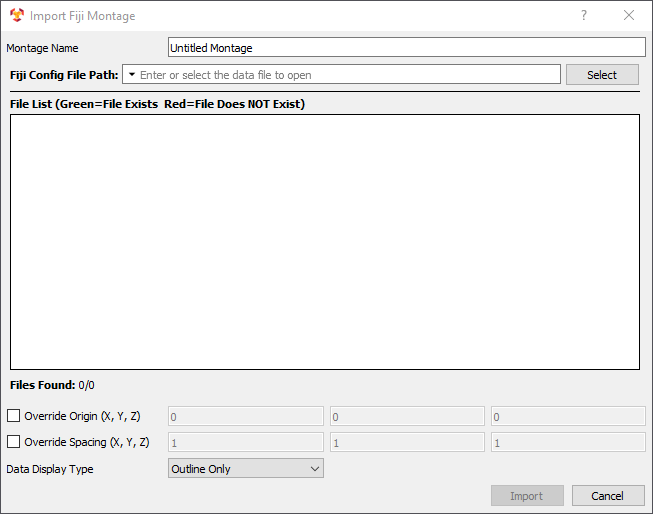
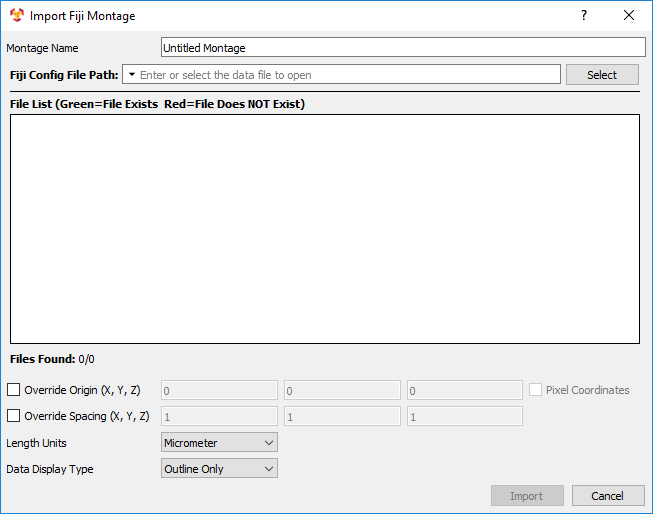
Updated documentation with length units and further details on menu options

diff --git a/Documentation/1_UsingIMFViewer/[B]_ImportingAMontageDataset.md b/Documentation/1_UsingIMFViewer/[B]_ImportingAMontageDataset.md
@@ -12,6 +12,10 @@ IMFViewer has 5 options for importing a montage:
 
 In **IMF Viewer**, the **File** menu option contains a submenu for **Import Montage**. In this submenu, there are 5 options for importing montages. These options are discussed below.
 
+For all montage options, the user can select a **Data Display Type** for the visualization of the montage. The **Outline Only** option shows a white wireframe of the overlapped image tiles. The **Individual Tiles** option shows the images overlapped with the image data visible. The **Stitched Montage** option performs a stitching montage on the input image datasets and displays the result.
+
+For the **Fiji**, **Generic**, and **Robomet** montage options, the user can specify the **Length Units** of the image files such as micrometers or inches. These will be applied to the geometry information for the input and output of the montages.
+
 [Special Note for Fiji montages using TIF files](#fijitif)
 
 ---
@@ -22,7 +26,7 @@ In **IMF Viewer**, the **File** menu option contains a submenu for **Import Mont
 
 ![DREAM3D Import Montage](Images/Import-DREAM3D-Montage.png)
 
-The **DREAM3D Montage** allows the user to import image geometry from a DREAM3D file by specifying the cell attribute matrix and image data array names. To select a DREAM3D file, click the **Select** button and use the dialog to find it. The row and column values are auto-filled by the naming convention (**prefix**_rYcX with Y the row number and X the column number). The **Data Display Type** option sets the visualization representation and determine whether to run a montaging process. The options are **Outline Only**, **Individual Tiles**, and **Stitched Montage**. When the desired values have been set, click **Import** to load the dataset into **IMF Viewer**.
+The **DREAM3D Montage** allows the user to import image geometry from a DREAM3D file by specifying the cell attribute matrix and image data array names. To select a DREAM3D file, click the **Select** button and use the dialog to find it. The row and column values are auto-filled by the naming convention (**_prefix_**_rYcX with Y the row number and X the column number). The **Data Display Type** option sets the visualization representation and determines whether to run a montaging process. The options are **Outline Only**, **Individual Tiles**, and **Stitched Montage**. When the desired values have been set, click **Import** to load the dataset into **IMF Viewer**.
 
 ---
 
@@ -32,7 +36,7 @@ The **DREAM3D Montage** allows the user to import image geometry from a DREAM3D 
 
 ![Fiji Import Montage](Images/Import-Fiji-Montage.png)
 
-The **Fiji** allows the user to import image geometry from a Fiji configuration file. To select a Fiji configuration file, click the **Select** button and use the dialog to find it. The **File List** widget shows the referenced files from the Fiji configuration file and shows whether they have been found. Additional options include overriding the origin and/or spacing of the image geometry. The **Data Display Type** option sets the visualization representation and determine whether to run a montaging process. The options are **Outline Only**, **Individual Tiles**, and **Stitched Montage**. When the desired values have been set, click **Import** to load the dataset into **IMF Viewer**.
+The **Fiji** allows the user to import image geometry from a Fiji configuration file. To select a Fiji configuration file, click the **Select** button and use the dialog to find it. The **File List** widget shows the referenced files from the Fiji configuration file and shows whether they have been found. Additional options include overriding the origin and/or spacing of the image geometry. When the desired values have been set, click **Import** to load the dataset into **IMF Viewer**.
 
 ---
 
@@ -42,7 +46,7 @@ The **Fiji** allows the user to import image geometry from a Fiji configuration 
 
 ![Generic Import Montage](Images/Import-Generic-Montage.png)
 
-The **Generic** montage allows the user to import image geometry from a folder of images. To select an image folder, click the **Select** button and use the dialog to find it. The **Collection Type**, **Order**, **Total Rows**, and **Total Columns** are used to help construct a tile configuration file. Additional options include overriding the origin and/or spacing of the image geometry and setting the tile overlap. The file information (prefix, suffix, extension, start/end index, increment index, and padding digits) should fill in automatically. Typing in the **File Extension** before selecting the folder helps. The **File List** widget shows the image files in the folder and shows whether they have been found. The **Data Display Type** option sets the visualization representation and determine whether to run a montaging process. The options are **Outline Only**, **Individual Tiles**, and **Stitched Montage**. A warning may appear if the number of files in the list do not match the size based on **Total Rows** and **Total Columns**. For example, if 9 files are in the list, the product of total rows and columns must equal 9. When the desired values have been set, click **Import** to load the dataset into **IMF Viewer**.
+The **Generic** montage allows the user to import image geometry from a folder of images. To select an image folder, click the **Select** button and use the dialog to find it. The **Collection Type**, **Order**, **Total Rows**, and **Total Columns** are used to help construct a tile configuration file. Additional options include overriding the origin and/or spacing of the image geometry and setting the tile overlap. The file information (prefix, suffix, extension, start/end index, increment index, and padding digits) should fill in automatically. Typing in the **File Extension** before selecting the folder helps. The **File List** widget shows the image files in the folder and shows whether they have been found. A warning may appear if the number of files in the list do not match the size based on **Total Rows** and **Total Columns**. For example, if 9 files are in the list, the product of total rows and columns must equal 9. When the desired values have been set, click **Import** to load the dataset into **IMF Viewer**.
 
 
 ---
@@ -53,7 +57,7 @@ The **Generic** montage allows the user to import image geometry from a folder o
 
 ![Robomet Import Montage](Images/Import-Robomet-Montage.png)
 
-The **Robomet** montage allows the user to import image geometry from a Robomet configuration file. To select a Robomet configuration file, click the **Select** button and use the dialog to find it. The file information (prefix, extension, rows, and columns) should fill in automatically. The **Slice Min** and **Slice Max** default to zero. These allow the user to run montages on several slices from the Robomet configuration file. These slices are combined into a stack in the visualization. The **File List** widget shows the image files in the folder and shows whether they have been found. Additional options include overriding the origin and/or spacing of the image geometry. The **Data Display Type** option sets the visualization representation and determine whether to run a montaging process. The options are **Outline Only**, **Individual Tiles**, and **Stitched Montage**. When the desired values have been set, click **Import** to load the dataset into **IMF Viewer**.
+The **Robomet** montage allows the user to import image geometry from a Robomet configuration file. To select a Robomet configuration file, click the **Select** button and use the dialog to find it. The file information (prefix, extension, rows, and columns) should fill in automatically. The **Slice Min** and **Slice Max** default to zero. These allow the user to run montages on several slices from the Robomet configuration file. These slices are combined into a stack in the visualization. The **File List** widget shows the image files in the folder and shows whether they have been found. Additional options include overriding the origin and/or spacing of the image geometry. When the desired values have been set, click **Import** to load the dataset into **IMF Viewer**.
 
 ---
 
@@ -63,7 +67,7 @@ The **Robomet** montage allows the user to import image geometry from a Robomet 
 
 ![Zeiss Import Montage](Images/Import-Zeiss-Montage.png)
 
-The **Zeiss** allows the user to import image geometry from a Zeiss configuration file. To select a Zeiss configuration file, click the **Select** button and use the dialog to find it. The **File List** widget shows the referenced files from the Zeiss configuration file and shows whether they have been found. Additional options include converting the images to grayscale and overriding the origin and/or spacing of the image geometry. The **Data Display Type** option sets the visualization representation and determine whether to run a montaging process. The options are **Outline Only**, **Individual Tiles**, and **Stitched Montage**. When the desired values have been set, click **Import** to load the dataset into **IMF Viewer**.
+The **Zeiss** allows the user to import image geometry from a Zeiss configuration file. To select a Zeiss configuration file, click the **Select** button and use the dialog to find it. The **File List** widget shows the referenced files from the Zeiss configuration file and shows whether they have been found. Additional options include converting the images to grayscale and overriding the origin and/or spacing of the image geometry. When the desired values have been set, click **Import** to load the dataset into **IMF Viewer**.
 
 ---
 

diff --git a/Documentation/1_UsingIMFViewer/[A]_UserInterface.md b/Documentation/1_UsingIMFViewer/[A]_UserInterface.md
@@ -12,7 +12,7 @@ IMFViewer has 5 main sections of its user interface:
 
 The **Import Queue** can be _undocked_ from the main window and moved around. Additionally, it can also have its visibility toggled by the appropriate button found in IMFViewer's **View** menu.
 
-IMFViewer allows the user to import image, DREAM.3D, STL, and VTK files as well as entire montages into the application and visualize the data. Users can import new data by clicking the _Import Data_ option in the _File_ menu, or by choosing a montage import method in the _Import Montage_ menu inside the _File_ menu.  Data that is currently being imported will appear in the **Import Queue** until the import is complete. Filter objects are created for imported data in the **Filter View** and the imported data also appears as a dataset in the **Visualization Widget**.  Users can manipulate fields in the **Filter Information Widget** to change information about the current dataset like its color mapping, alpha value, and local transform.
+IMFViewer allows the user to import image, DREAM.3D, STL, and VTK files as well as entire montages into the application and visualize the data. Users can import new data by clicking the _Import Data_ option in the _File_ menu, or by choosing a montage import method in the _Import Montage_ menu inside the _File_ menu.  Data that is currently being imported will appear in the **Import Queue** until the import is complete. Filter objects are created for imported data in the **Filter View** and the imported data also appears as a dataset in the **Visualization Widget**.  Users can manipulate fields in the **Filter Information Widget** to change information about the current dataset like its color mapping, alpha value, and local transform. Users can select specific datasets and perform operations on them, such as translating, rotating, and scaling in 3D space or stitching individual tiles together into a montage.
 
 ---
 
@@ -20,7 +20,7 @@ IMFViewer allows the user to import image, DREAM.3D, STL, and VTK files as well 
 ## Filter View ##
 </a>
 
-The **Filter View** section displays which **Filters** are currently loaded in the IMFViewer application.  Users can select specific filters and perform operations on them, such as translating, rotating, and scaling datasets in 3D space or stitching individual tiles together into a montage.
+The **Filter View** section displays which **Filters** are currently loaded in the IMFViewer application. The filters are organized with a root element and its children. The root element is the file, pipeline, or montage container. The children are individual data containers or images. The visibility of the children can be toggled by clicking the eye icon.
 
 ---
 
@@ -52,4 +52,31 @@ The **Import Queue** shows datasets in the process of being loaded. These can in
 ## Menu Options ##
 </a>
 
-The **File Menu** includes menu options for importing data, importing montages, executing DREAM3D pipelines, performing montages, and saving images or DREAM3D files. To save an image, a valid filter must be selected that contains image geometry. To save a DREAM3D file, the selected filter(s) must be a DREAM3D pipeline or data container array. The **View Menu** allows the user to hide the **Import Queue**. The **Filters Menu** has options for clip, slice, crop, threshold, mask, or text filters.
+The **File Menu** includes menu options for importing data, importing montages, executing DREAM3D pipelines, performing montages, and saving images or DREAM3D files. To save an image, a valid filter must be selected that contains image geometry. To save a DREAM3D file, the selected filter(s) must be a DREAM3D pipeline or data container array. The **View Menu** allows the user to hide the **Import Queue**. The **Filters Menu** has options for clip, slice, crop, threshold, mask, or text filters. 
+
+Current Menu Options:
+* File
+    * Import Data
+    * Import Montage
+        * DREAM3D
+        * Fiji
+        * Generic
+        * Robomet
+        * Zeiss
+    * Execute Pipeline
+    * Perform Montage
+    * Save Image
+    * Save As DREAM3D File
+* View
+    * Import Queue
+* Filters
+    * Clip Filter
+    * Slice Filter
+    * Crop Filter
+    * Threshold Filter
+    * Mask Filter
+    * Text Filter
+
+For further details on **Import Data**, see [C]_ImportingOtherDatasets.md.
+For **Import Montage**, see [B]_ImportingAMontageDataset.md.
+For **Execute Pipeline** and **Perform Montage**, see [E]_AdvancedOptions.md.

diff --git a/Documentation/1_UsingIMFViewer/[E]_AdvancedOptions.md b/Documentation/1_UsingIMFViewer/[E]_AdvancedOptions.md
@@ -17,7 +17,7 @@ In **IMF Viewer**, the **File** menu option contains options for performing a mo
 
 ![Perform Montage](Images/Perform-Montage.png)
 
-The **Perform Montage** menu option allows the user to perform a montage of selected image datasets. The selected datasets are shown in a read-only list. The resulting montage can be named. Selecting **Perform Stitching Only** will ensure the current positions for selected image datasets are kept and the registration filter is not run. The **Save to File** option allows the user to select an output file for the montage results.
+The **Perform Montage** menu option allows the user to perform a montage of selected image datasets. The selected datasets are shown in a read-only list. The resulting montage can be named using the **Montage Name** text entry. Selecting **Perform Stitching Only** will ensure the current positions for selected image datasets are kept and the registration filter is not run. The **Save to File** option allows the user to select an output file for the montage results.
 
 ---
 
@@ -27,8 +27,8 @@ The **Perform Montage** menu option allows the user to perform a montage of sele
 
 ![Execute Pipeline](Images/Execute-Pipeline.png)
 
-The **Execute Pipeline** menu option allows the user to execute a pipeline either purely from the file system or on a loaded dataset. If the **Execute a Pipeline From Disk** is selected, the user needs only to select a pipeline .json file and click **OK**. However, all filters in the JSON file must be available for it to run successfully. If the user selects **Execute a Pipeline on a Loaded Dataset**, then an additional page is shown after clicking **Next >**.
+The **Execute Pipeline** menu option allows the user to execute a pipeline. The pipeline can be executed either directly from the file system or on a loaded dataset. If the **Execute a Pipeline From Disk** is selected, the user needs only to select a pipeline .json file and click **OK**. However, all filters in the JSON file must be available for it to run successfully. If the user selects **Execute a Pipeline on a Loaded Dataset**, then an additional page is shown after clicking **Next >**.
 
 ![Execute Pipeline Advanced](Images/Execute-Pipeline-Advanced.png)
 
- The further options include selecting a starting filter, a loaded dataset, the display type, and setting the origin and/or spacing for the image geometry. The **Starting Filter** is the filter in the pipeline to start the execution of the pipeline. This is for skipping any dataset loading or other unnecessary filters. The **Image Dataset** is the input data for the pipeline execution. The three radio buttons are for selecting the display type: **Display Montage**, **Display Tiles Side by Side**, or **Display Outline Only**. The **Advanced** section contains options to change the origin and/or spacing of all input image geometry. Filter parameter values in the selected pipeline file should match appropriately with the input dataset. For example, a cell attribute matrix name in a particular filter's parameters should match the input data containers.
+The further options include selecting a starting filter, a loaded dataset, the display type, and setting the origin and/or spacing for the image geometry. The **Starting Filter** is the filter in the pipeline to start the execution of the pipeline. This is for skipping any dataset loading or other unnecessary filters. The **Image Dataset** is the input data for the pipeline execution. The three radio buttons are for selecting the display type: **Display Montage**, **Display Tiles Side by Side**, or **Display Outline Only**. The **Advanced** section contains options to change the origin and/or spacing of all input image geometry. Filter parameter values in the selected pipeline file should match appropriately with the input dataset. For example, a cell attribute matrix name in a particular filter's parameters should match the input data containers.

diff --git a/Documentation/1_UsingIMFViewer/[D]_ManipulatingDatasets.md b/Documentation/1_UsingIMFViewer/[D]_ManipulatingDatasets.md
@@ -17,6 +17,8 @@ The user can manipulate datasets using the user interface, context menu via righ
 
 The options available in the user interface are contingent upon the dataset's underlying type. If it is 3D data, there are additional options for changing the representation (Outline, Surface, etc.), visualized data array and component, subsampling, and color mapping. For 2D and 3D data, there are options to adjust the **Alpha** (transparency) value as well as the **Local Transform**. If the user wants to revert the transform to its default, there is a **Reset** button in the **Local Transform** section to do so.
 
+The **Color Mapping** widget is only fully enabled for 3D data and grayscale images. 
+
 ---
 
 <a name="context">
